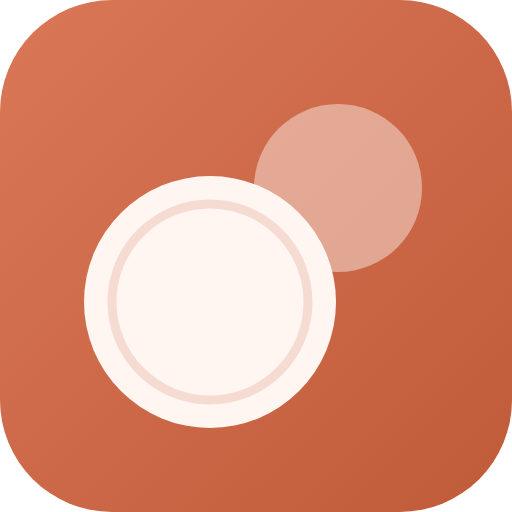
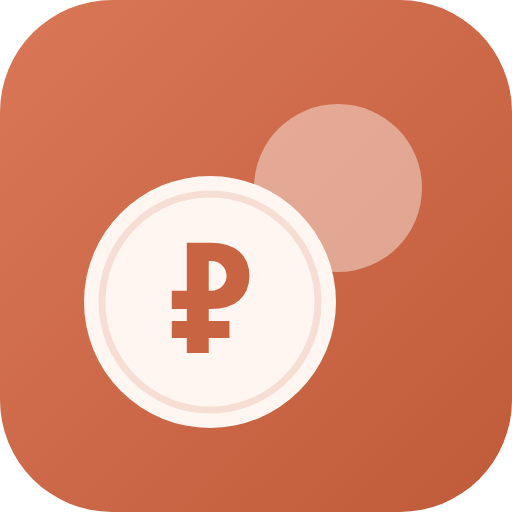
Иконка: вернул монету с ₽ (версия из PR #8)
По просьбе пользователя возвращена иконка с символом ₽ на монете —
восстановлены icon.svg и PNG 180/192/512 из версии PR #8, логотип
онбординга снова монета с ₽. Кэш service worker → v18.

Claude-Session: https://claude.ai/code/session_012sfmLX3CmeEjouaf919c5U

Changed region(s): [[0.1875, 0.375, 0.625, 0.8125], [0.3125, 0.4688, 0.5, 0.6875]]

diff --git a/index.html b/index.html
@@ -38,7 +38,7 @@
       <div class="ob-logo">
         <svg viewBox="0 0 24 24" fill="none" stroke="currentColor" stroke-width="1.7" stroke-linecap="round" stroke-linejoin="round" aria-hidden="true">
           <circle cx="12" cy="12" r="8.4"/>
-          <circle cx="12" cy="12" r="4.6" opacity="0.5"/>
+          <path d="M10 8.2V16.2M10 8.2h2.4a2.1 2.1 0 0 1 0 4.2H10M8.3 13.1H10"/>
         </svg>
       </div>
       <h1>Наши деньги</h1>

diff --git a/sw.js b/sw.js
@@ -1,6 +1,6 @@
 // Service worker: офлайн-оболочка приложения (offline-first)
 
-const VERSION = 'v17';
+const VERSION = 'v18';
 const CACHE = `family-money-${VERSION}`;
 const FONT_CACHE = 'family-money-fonts';
 const ASSETS = [
